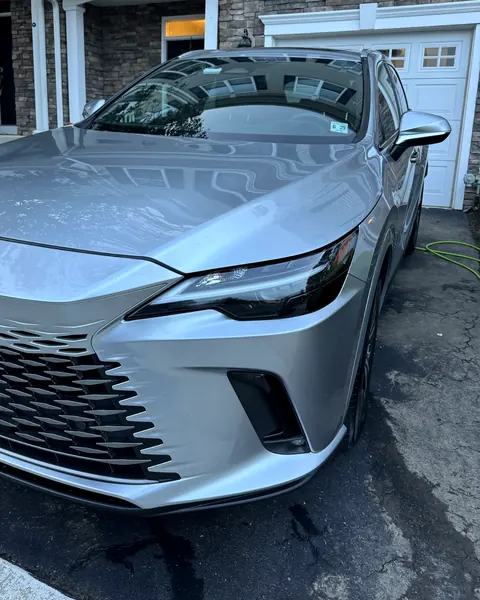
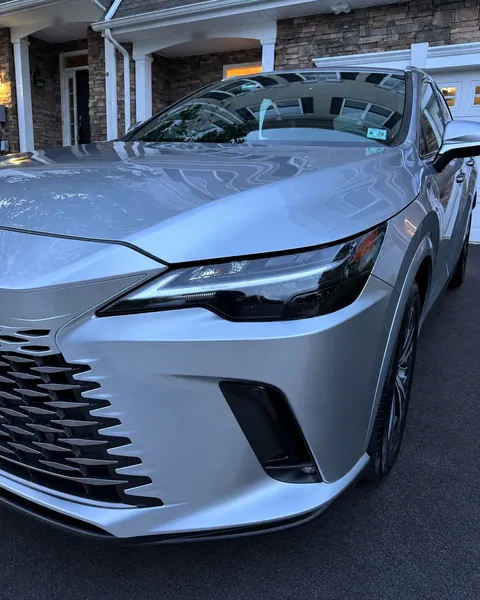
Exterior card: use the owner's cleaned-up front-end photo
- Owner-edited photo converted to WebP and cropped 4:5, with the two
  house numbers blurred for privacy
- Card crop anchored low so the headlight and grille lead
- Remove the now-unused gloss-headlight images

Claude-Session: https://claude.ai/code/session_019scLPhT3wJapjHJDkCas9U

diff --git a/index.html b/index.html
@@ -269,7 +269,7 @@
             </div>
           </a>
           <a href="/exterior-detailing/" class="s-card reveal">
-            <div class="s-img"><img src="images/gloss-headlight-480.webp" srcset="images/gloss-headlight-480.webp 480w, images/gloss-headlight.webp 960w" sizes="(max-width: 640px) 78vw, 280px" alt="" loading="lazy" width="480" height="600" /></div>
+            <div class="s-img"><img src="images/gloss-front-end-480.webp" srcset="images/gloss-front-end-480.webp 480w, images/gloss-front-end.webp 960w" sizes="(max-width: 640px) 78vw, 280px" alt="" loading="lazy" width="480" height="600" /></div>
             <div class="s-body">
               <h3>Exterior Detailing</h3>
               <p>Foam pre-wash, hand wash, bug and tar removal and a spray sealant.</p>

diff --git a/site.css b/site.css
@@ -1290,3 +1290,5 @@ h1.section-heading { font-size: clamp(2.6rem, 5.6vw, 4.6rem); }
 .panel.page-top { margin: 0 -10px; padding-top: 9.5rem; border-radius: 0 0 var(--radius) var(--radius); }
 @media (max-width: 640px) { .panel.page-top { margin: 0 -6px; padding-top: 7.5rem; } }
 .reviews-cta { margin-top: 2.75rem; }
+/* Exterior photo: favor the headlight and grille over the house */
+.s-card[href="/exterior-detailing/"] .s-img img { object-position: 50% 100%; }
